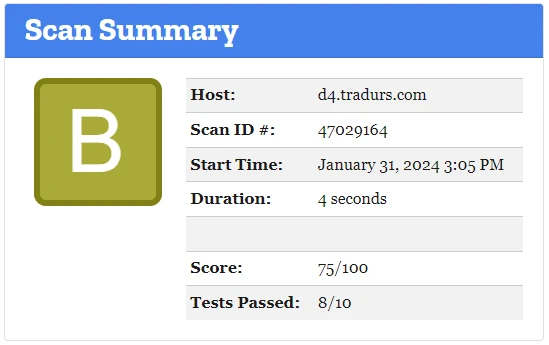
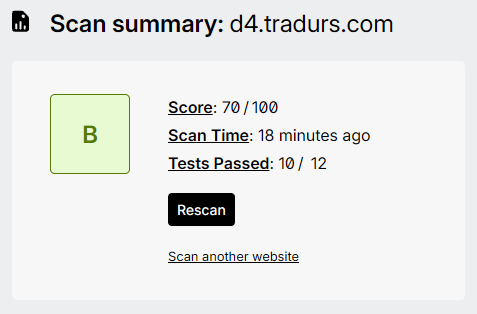
fix(d4): cover unique affix corrections and refresh support status

diff --git a/src/i18n/ko/index.ts b/src/i18n/ko/index.ts
@@ -634,7 +634,7 @@ export default {
         {
           type: 'text',
           contents:
-            'W3C에서 제공하는 웹 표준 체크에 1건의 체크 항목만 표시됩니다.'
+            'W3C에서 제공하는 웹 표준 검사를 모두 통과했습니다.'
         }
       ]
     },

diff --git a/src/i18n/en/index.ts b/src/i18n/en/index.ts
@@ -643,7 +643,7 @@ export default {
         {
           type: 'text',
           contents:
-            'The web standards check provided by W3C shows only 1 checked item.'
+            'All W3C markup validation checks have passed.'
         }
       ]
     },
